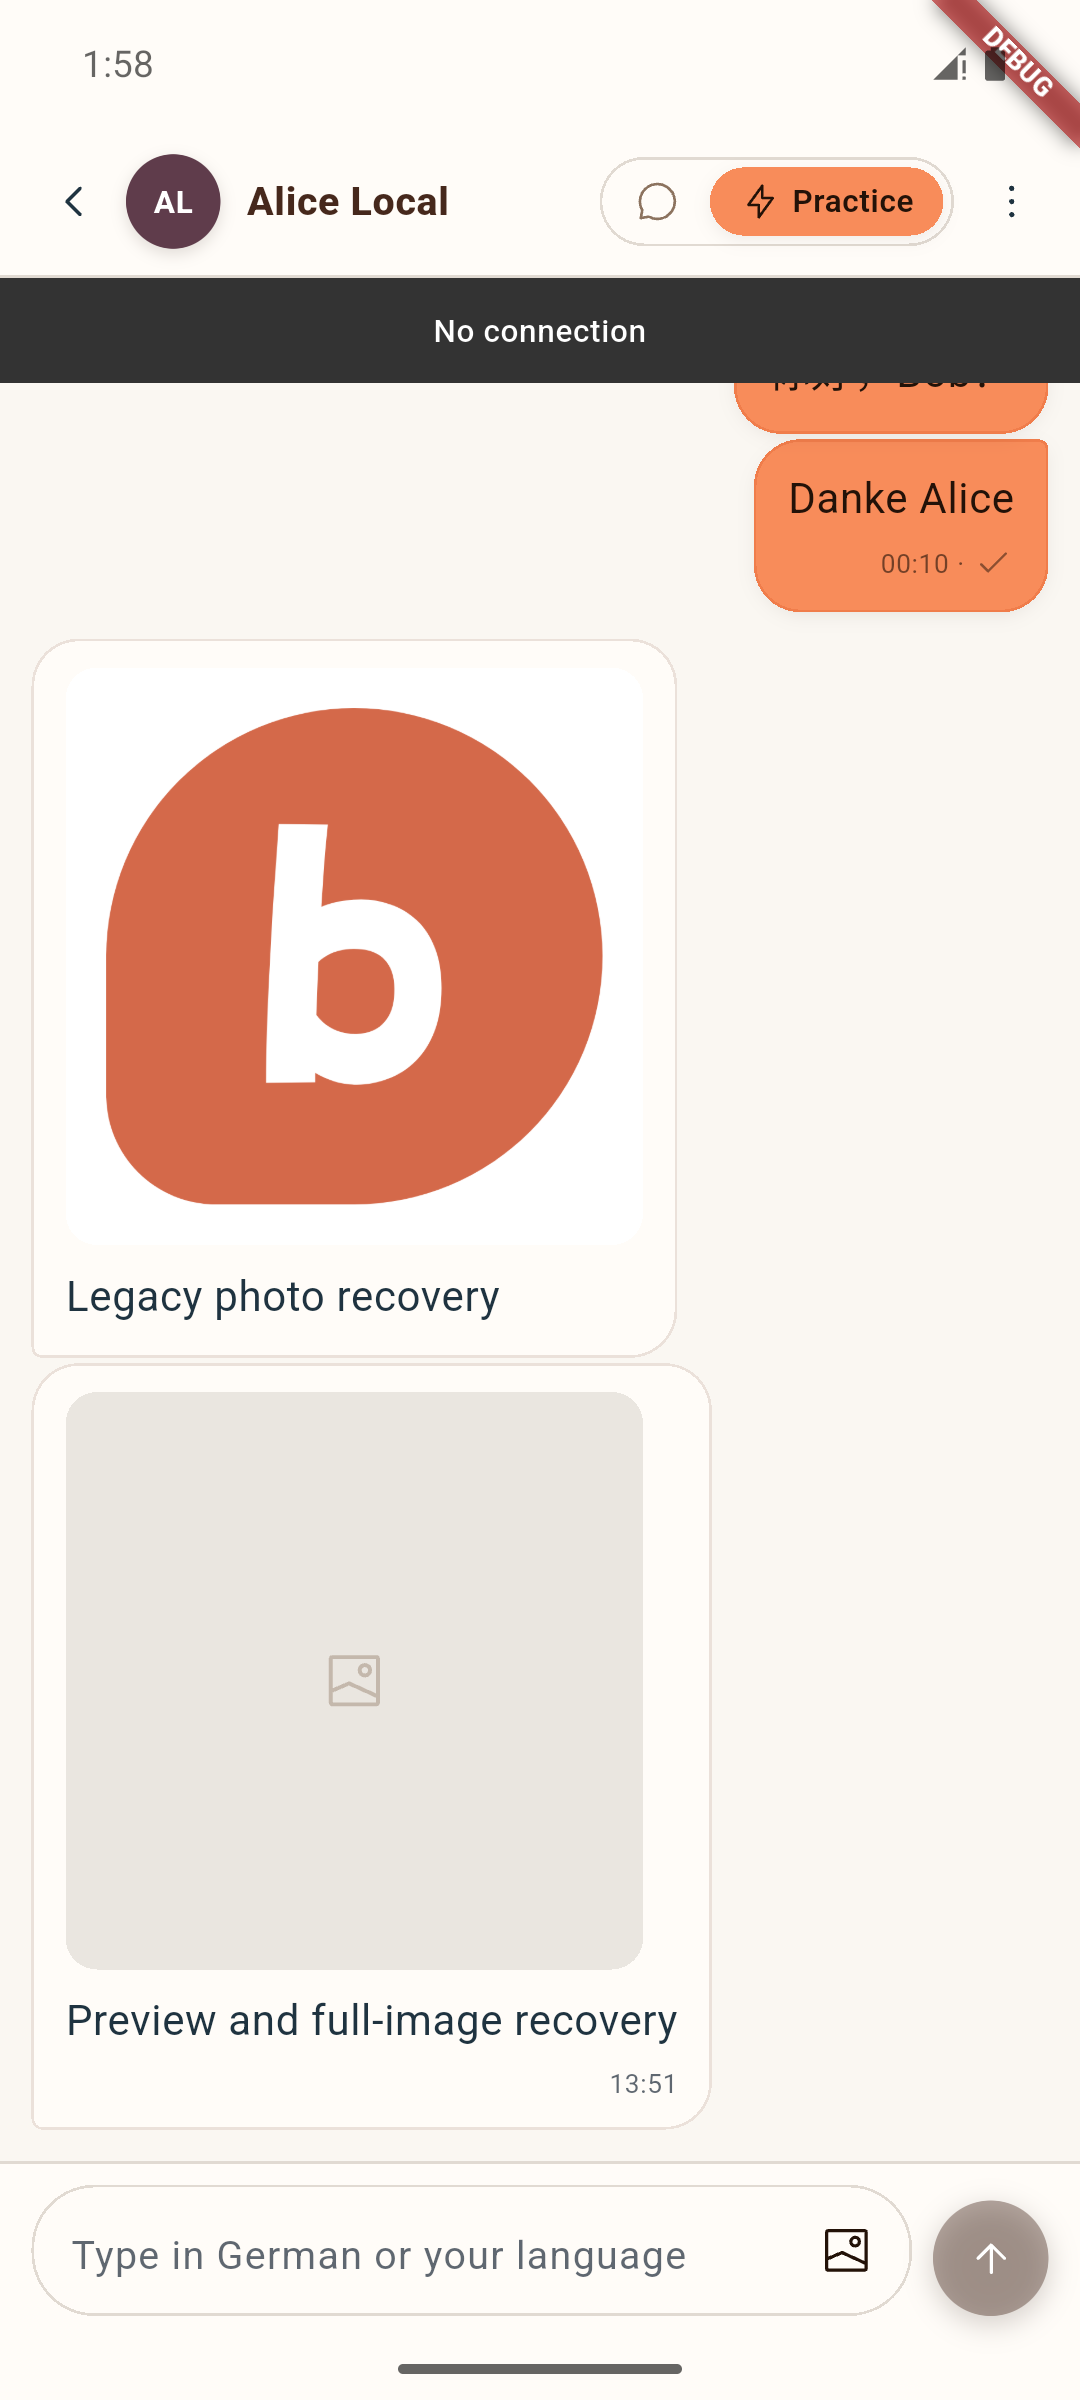
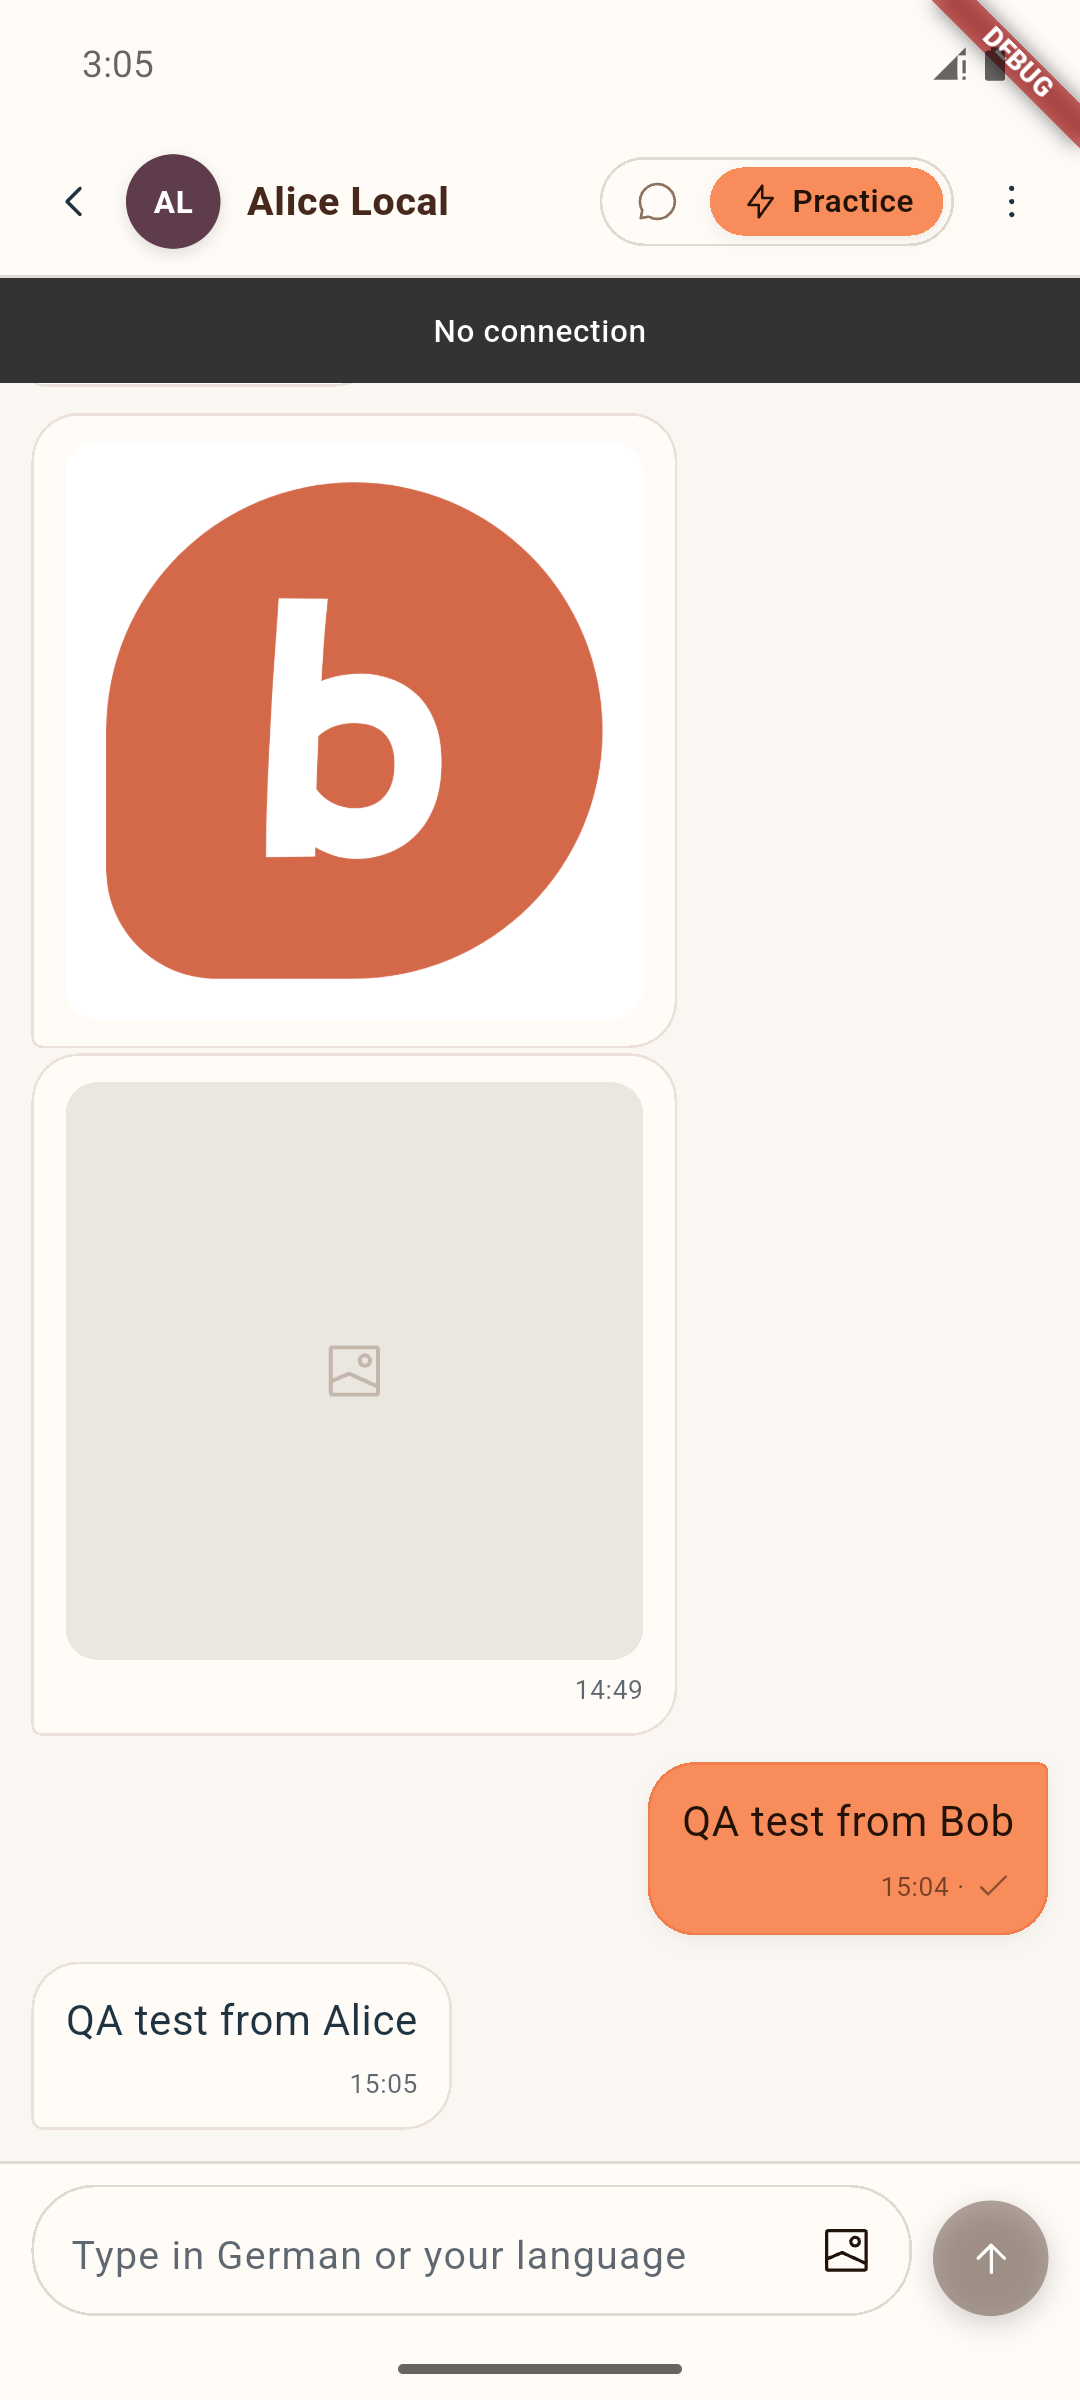
docs: correct captionless photo recovery proof

diff --git a/tasks/progress.md b/tasks/progress.md
@@ -238,6 +238,7 @@
   - [x] Full automated verification (2026-09-12): `flutter test` passed 489 checks with 15 environment-gated skips; `flutter analyze` and `git diff --check` are clean.
   - [x] Android emulator pass (2026-09-13): a never-downloaded photo showed the neutral placeholder offline and recovered automatically after reconnection; an opened original remained available full-screen offline.
   - [x] Alice/Bob matrix (2026-09-13): cached preview, opened full image, damaged legacy photo, browser account switch, and empty-history service Retry/reconnect all passed with proof screenshots in `docs/qa/2026-09-13-offline-history-photos/`.
+  - [x] Captionless-photo correction (2026-09-13): repeated the Android offline, damaged-cache, placeholder/recovery, and service Retry states with empty photo captions; no unsupported-language hint appears on either photo. Alice web still shows the hint only for an actual unsupported Chinese text message.
 
 ### Step 2.5 — Push notifications  `[ ]` — **DEFERRED to v1.1** (2026-06-01 ship-fast decision)
 - **Scope:** US-038, FR-29.
@@ -933,3 +934,5 @@ Append one line per non-trivial edit to this file (step added, scope changed, bl
 - 2026-09-11 — Replaced unsafe multilingual subject heuristics after final review: German nouns no longer look like people, common English/German direct clauses resolve, Dutch possessive `je` and ambiguous Italian `sono` stay audit-owned, and generic Spanish/Portuguese noun endings no longer claim participant identity. All 28 ownership tests and 31 focused Flutter checks pass; the existing server/UI baseline failures and owner/device gates remain open.
 
 - 2026-09-12 — Completed the approved translation-reliability follow-up: provider calls now have bounded deadlines, reconnect retries exclude permanent failures, privacy and ephemeral chat state are account-isolated, tone changes request fresh translations, and all 11 primary known languages are accepted by server completion. Verified 473 Flutter tests, 80 Deno translation tests, 135 database tests, formatting, diff checks, and clean static analysis. Owner/device acceptance gates remain unchanged.
+
+- 2026-09-13 — Corrected the offline-photo QA fixture after owner review: photo-only messages now use empty captions and create no translation work. Repeated the Android offline/recovery matrix, replaced the misleading screenshots, and kept Step 2.4a open for owner acceptance.

diff --git a/docs/qa/2026-09-13-offline-history-photos/README.md b/docs/qa/2026-09-13-offline-history-photos/README.md
@@ -6,8 +6,8 @@ Environment: local Supabase, Alice in the Flutter web client, Bob in the Android
 
 ## Local fixtures
 
-- Alice and Bob shared chat with one legacy photo that has no preview metadata.
-- Alice and Bob shared chat with one modern photo whose preview and original are visibly different.
+- Alice and Bob shared chat with one captionless legacy photo that has no preview metadata.
+- Alice and Bob shared chat with one captionless modern photo whose preview and original are visibly different.
 - Alice-only chat with Carol containing `Alice-only cache marker` for the account-isolation check.
 
 ## Matrix
@@ -24,6 +24,7 @@ Environment: local Supabase, Alice in the Flutter web client, Bob in the Android
 ## Notes and limitations
 
 - The photo cache manipulations used only Bob's emulator-local preferences and the local QA backend.
+- Both photo messages use an empty caption and create no translation-preparation job. The screenshot evidence was repeated after removing temporary fixture labels that had been interpreted as captions and produced misleading unsupported-language hints.
 - The account switch was exercised in one browser profile: Alice showed the Carol marker, while Bob showed only Alice.
 - This pass does not claim reinstall/new-device recovery or physical-device coverage. The approved V1 contract keeps those out of scope.
 - Owner acceptance remains separate from this engineering QA record.
